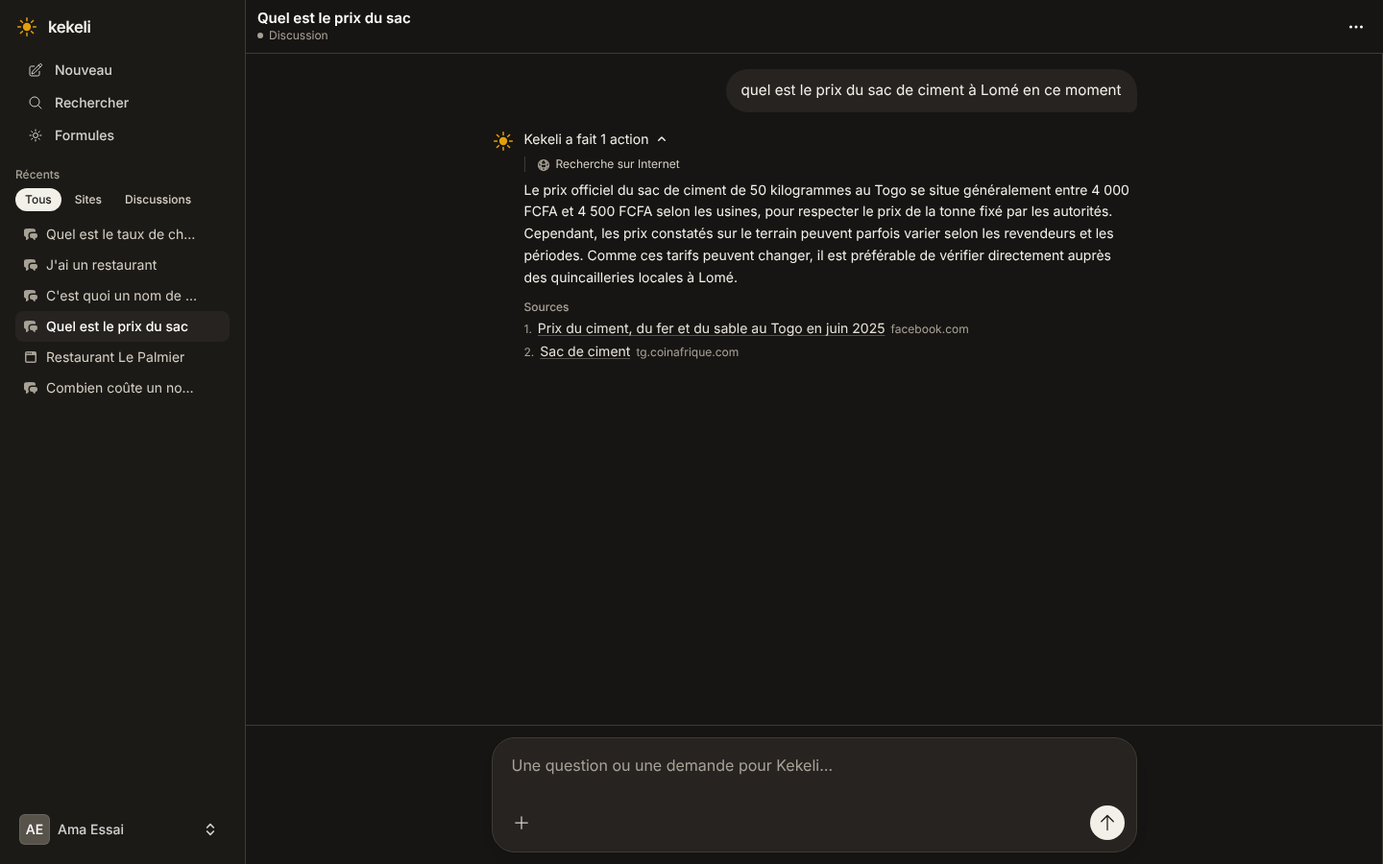
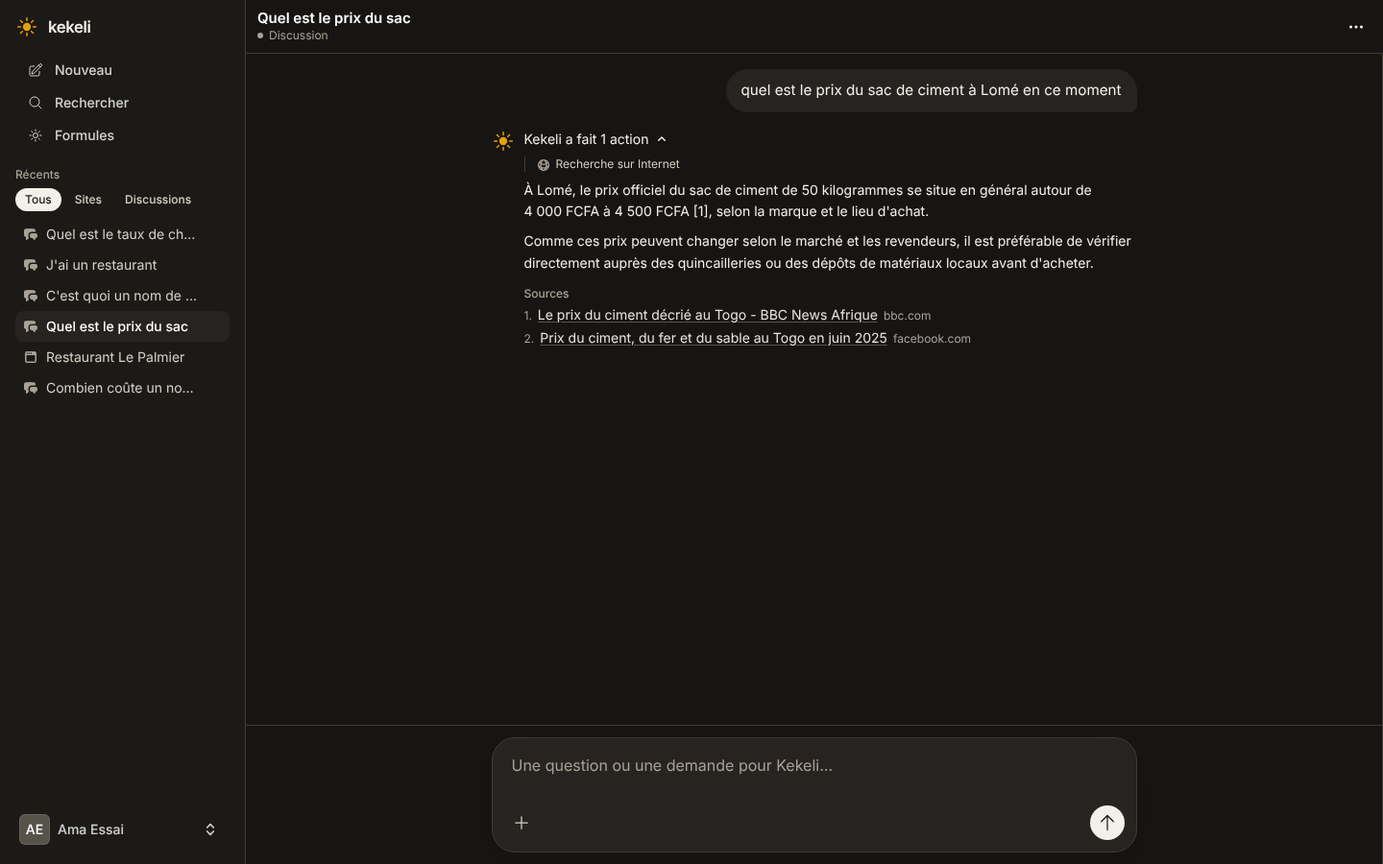
Recherche sur Internet : captures, documents
Captures sur téléphone et ordinateur, en mode clair et sombre (question
avec recherche et sources, recherche dans les actions repliées, question
sans recherche, limite atteinte, trois finitions de la navigation) ;
partie 26.13 du plan, CLAUDE.md et REPRISE.md à jour.

Claude-Session: https://claude.ai/code/session_01LdDqrkxoaQ87kKiJPA4bsJ

Changed region(s): [[0.375, 0.2178, 0.8125, 0.4356]]

diff --git a/CLAUDE.md b/CLAUDE.md
@@ -86,7 +86,7 @@ kekeli.dev, à acheter avant la mise en ligne.
 - **Construction et tests (étapes 2 à 7)** : Gemini, offre gratuite de Google AI Studio. Pour faire tourner l'agent, un modèle **Flash-Lite** (environ 500 requêtes par jour, à vérifier dans AI Studio) ; les Gemini Flash plus forts n'ont qu'environ 20 requêtes par jour en gratuit. Les modèles gratuits valident la mécanique ; à l'étape 6, on compare les **meilleurs modèles gratuits**. Aucun budget payant pendant la construction (règle numéro 8) : la comparaison avec Claude Haiku et Claude Sonnet se fera à la fin du projet, quand la clé Claude sera achetée.
 - **Offre gratuite = données utilisées par Google** (amélioration des produits, relecture humaine possible) : uniquement des données de test inventées pendant la construction, jamais de données réelles de clients.
 - **Liste des fournisseurs gratuits** (détails, limites et conditions dans `docs/plan.md`, essais réels du 10 novembre 2026 dans `docs/couts.md`), dans cet ordre (choisi le 11 novembre 2026 après les essais réels et corrigé le même jour, parties 21 et 22 de `docs/plan.md`) : 1. Google AI Studio, Gemini 3.5 Flash-Lite ; 2. Google AI Studio, Gemini 3.1 Flash-Lite (quota séparé) ; 3. OpenRouter (**uniquement des modèles gratuits « :free »**, et seulement ceux dont l'hébergeur permet l'usage pour des clients : par défaut `google/gemma-4-31b-it:free`, servi par Google ; jamais les versions gratuites de Nemotron, servies par NVIDIA sous des conditions d'essai « not in production », ni de North, servies par Cohere qui interdit de « commercially exploit » son service ; 50 requêtes par jour pour tous les modèles gratuits ensemble) ; 4. Cloudflare Workers AI (modèles gratuits seulement, 10 000 neurones par jour partagés avec les images ; le compte doit rester sur l'offre gratuite « Workers Free »). **Mistral écarté le 11 novembre 2026** : plus d'offre gratuite pour l'API (code gardé, inactif, comme Groq). **Groq essayé le 10 novembre 2026 : impossible pour l'agent** (8 000 tokens par minute, une demande en pèse environ 9 000) ; gardé dans le code (`GROQ_API_KEY`), hors de la liste. Écartés aussi, avec leur raison dans `docs/plan.md` (partie 21) : Cerebras, NVIDIA, Cohere, Hugging Face, GitHub Models, SambaNova, OVH, AI Horde, OpenCode Zen, les fournisseurs chinois, Moonshot et MiniMax ; à décider (rien intégré) : Z.ai et Zhipu, Ollama Cloud, les revendeurs. Liste et modèles repris du dépôt freellmapi (licence MIT, `MENTIONS.md`), qui n'est pas installé. **Jamais de modèle payant** : chez OpenRouter seulement « :free », chez Cloudflare seulement la liste des modèles gratuits, jamais de Gemini Pro, Argon ou Ultra ; refusé par le site (`ProviderList::isAllowed`), par le Runner (`modeleAutorise`) et par OpenCode (liste blanche) ; ne jamais acheter de crédits sans l'accord du porteur du projet. Un même projet garde le même modèle pendant 30 minutes (`MemoireModeles`). Un seul compte par fournisseur : ne jamais multiplier les comptes pour contourner les quotas.
-- **Réglages** (variables d'environnement, jamais dans le code) : `KEKELI_FOURNISSEURS` donne l'ordre de la liste (par exemple `gemini,openrouter,workersai`), dans le site ; une entrée peut préciser le modèle (`gemini/gemini-3.1-flash-lite`), utile car les quotas gratuits de Google sont comptés par modèle ; sinon le modèle vient de `KEKELI_MODELE_GEMINI`, `KEKELI_MODELE_OPENROUTER`, `KEKELI_MODELE_WORKERSAI`, `KEKELI_MODELE_MISTRAL` ; les limites affichées dans l'administration viennent de `KEKELI_LIMITE_JOUR_*`. Un fournisseur sans clé dans le Runner est ignoré. Noms des clés (dans le Runner seulement) : `GEMINI_API_KEY`, `OPENROUTER_API_KEY`, `GROQ_API_KEY`, `MISTRAL_API_KEY`, et `E2B_API_KEY` pour les ordinateurs virtuels. Secret partagé entre le site et le Runner : `KEKELI_RUNNER_SECRET`.
+- **Réglages** (variables d'environnement, jamais dans le code) : `KEKELI_FOURNISSEURS` donne l'ordre de la liste (par exemple `gemini,openrouter,workersai`), dans le site ; une entrée peut préciser le modèle (`gemini/gemini-3.1-flash-lite`), utile car les quotas gratuits de Google sont comptés par modèle ; sinon le modèle vient de `KEKELI_MODELE_GEMINI`, `KEKELI_MODELE_OPENROUTER`, `KEKELI_MODELE_WORKERSAI`, `KEKELI_MODELE_MISTRAL` ; les limites affichées dans l'administration viennent de `KEKELI_LIMITE_JOUR_*`. Un fournisseur sans clé dans le Runner est ignoré. Noms des clés (dans le Runner seulement) : `GEMINI_API_KEY`, `OPENROUTER_API_KEY`, `GROQ_API_KEY`, `MISTRAL_API_KEY`, `E2B_API_KEY` pour les ordinateurs virtuels, et `TAVILY_API_KEY`, `EXA_API_KEY` pour la recherche sur Internet. Secret partagé entre le site et le Runner : `KEKELI_RUNNER_SECRET`.
 - **Basculement** : sur une réponse « limite atteinte » (code 429 ou quota du jour épuisé), le fournisseur est mis de côté jusqu'à sa remise à zéro, et la même tâche reprend avec le suivant. Si tous sont épuisés (problème interne), la demande est **mise en attente et reprend automatiquement** ; l'utilisateur voit seulement « Kekeli est très sollicité » et **ne voit jamais qu'il s'agit d'offres gratuites** ; l'administrateur reçoit une alerte dans l'administration.
 - **Comptage** : requêtes, refus pour limite atteinte et tokens enregistrés par fournisseur et par jour ; page d'administration avec l'usage du jour comparé à la limite et une alerte à partir de 80 %.
 - **Lancement (étape 8)** : les offres gratuites servent seulement la formule gratuite de Kekeli ; les abonnés payants passent par des clés payantes. Choix d'un modèle économique et d'un modèle puissant payants au meilleur rapport qualité-prix (Gemini avec facturation Google Cloud, Claude, OpenAI ou autre). Jamais de Gemini gratuit pour des utilisateurs situés en Europe, en Suisse ou au Royaume-Uni.
@@ -163,6 +163,13 @@ kekeli.dev, à acheter avant la mise en ligne.
 - **Conseil d'hébergement** (inchangé) selon le code du site et le pays du client : 2 ou 3 choix honnêtes, ordre de grandeur du prix « à vérifier sur le site de l'hébergeur », sans jargon. **Aucune publicité, aucun lien d'affiliation.**
 - **Pour tous les sites**, le client choisit librement : publier (site vitrine, en un geste), télécharger son code, le relier à GitHub. « Relier à GitHub » n'apparaît que lorsque l'accès à GitHub est réglé ; sinon il reste caché, **sans aucun message « bientôt »**.
 
+### Recherche sur Internet avec sources (construite le 12 novembre 2026, `docs/plan.md`, partie 26.13)
+- **Outil « rechercher_web » du premier répondant** (accueil, discussions, projets) : seulement quand la réponse dépend d'informations actuelles ou vérifiables, ou quand le client le demande ; jamais pour une définition, une explication ou un conseil général.
+- **Offres gratuites seulement** : Tavily (recherche « basic ») puis Exa en secours ; un fournisseur qui demande de payer est ignoré. Clés `TAVILY_API_KEY` et `EXA_API_KEY`, seulement dans le Runner. **Pas de recherche Google intégrée à Gemini** : « Not available » dans l'offre gratuite.
+- **Réponses** : courtes, avec leurs propres mots, nombres en chiffres, date de l'information, incertitudes dites ; « Sources » ajoutées par Kekeli (2 à 5 liens, numérotés comme les citations [1]), jamais d'adresse écrite par le modèle ; ligne « Recherche sur Internet… » pendant la recherche.
+- **Sécurité** : contenu des pages = information, jamais consigne ; jamais d'adresse interne ; au plus 2 recherches par message.
+- **Limites** : par jour selon la formule (Gratuite 3, Pro 20, Expert 40, Agence 80) et 900 par mois pour tous, réglables dans Administration → Réglages ; 0,008 $ par recherche compté dans l'énergie (estimation) ; limite atteinte : réponse sans recherche, dite poliment.
+
 ### Publication des sites des clients
 - **Au départ, adresses gratuites de Cloudflare (`pages.dev`).** Pas de deuxième nom de domaine.
 - Les sites des clients ne sont jamais publiés sur kekeli.dev.
@@ -222,7 +229,7 @@ Le plan détaillé et à jour est dans [`docs/plan.md`](docs/plan.md).
 | Nettoyage professionnel | Règle : ce que Claude Code, Lovable ou Bolt.new n'ont pas (ou montrent autrement) est enlevé ou refait comme eux. Dernier message court, sans jargon ; « Kekeli a fait X actions » avec des libellés simples ; fichiers modifiés dans l'onglet Code seulement ; plus de boutons de copie ni de partage ; aucun emoji dans les messages système ; aperçu qui se rallume tout seul ; fonctions « bientôt disponible » cachées ; tous les écrans du client allégés | Construit et testé (captures : `docs/captures/nettoyage.md` ; détails : `docs/plan.md`, partie 23.10), à valider ; suivant : mise en ligne sur Laravel Cloud, puis l'application GitHub avec « dépôt d'abord » et « site d'abord » livrés ensemble, puis les versions (partie 23.11) |
 | Publier et récupérer son site (12 novembre 2026) | Site vitrine : « Mettre en ligne » en un geste, plus « Télécharger le code » et « Relier à GitHub » ; site avec base de données : plus de guide ni de ZIP pour cPanel, « Récupérer le code » avec une phrase honnête ; questions dans la discussion répondues sans modifier le site (une requête, sans ordinateur) ; conseils d'hébergement honnêtes | Construit et testé (captures : `docs/captures/publier.md` ; détails : `docs/plan.md`, partie 23.12 ; énergie : `docs/couts.md`), à valider |
 | Nouvelles formules (12 novembre 2026) | Gratuite, Pro 7 500 FCFA, Expert 20 000 FCFA, Agence 50 000 FCFA ; énergie par mois pour les payantes ; prix en dollars hors zone FCFA ; passage des abonnés de Découverte et d'Entreprise sans perte ; plafond gratuit 1 000 FCFA et 5 minutes avant la pause ; prix du cache de Sonnet 5.5 corrigé | Construit et testé (captures : `docs/captures/formules.md` ; détails : `docs/plan.md`, partie 25), à valider |
-| Kekeli, agent général (12 novembre 2026) | Étude et plan : dix capacités, architecture en trois niveaux (répondre, chercher, fabriquer), identité visuelle, coûts, sécurité, ordre des pull requests | Étude fusionnée (`docs/plan.md`, partie 26) ; design validé le 12 novembre 2026 (pull request 34), finitions validées (pull request 35) ; pull request 2 « Une seule zone pour tout » validée (pull request 36) ; pull request « Navigation professionnelle » construite et testée (barre commune, recherche, Récents, menu « + », apparence, réglages par onglets, nombres en chiffres ; mesure 35 sur 36 ; captures : `docs/captures/navigation.md` ; détails : partie 26.12), **à valider avant la pull request des documents** |
+| Kekeli, agent général (12 novembre 2026) | Étude et plan : dix capacités, architecture en trois niveaux (répondre, chercher, fabriquer), identité visuelle, coûts, sécurité, ordre des pull requests | Étude fusionnée (`docs/plan.md`, partie 26) ; design validé le 12 novembre 2026 (pull request 34), finitions validées (pull request 35) ; pull request 2 « Une seule zone pour tout » validée (pull request 36) ; pull request « Navigation professionnelle » validée (pull request 37) ; pull request « Recherche sur Internet avec sources » construite et testée (Tavily puis Exa gratuits, sources, quotas, trois finitions de la navigation ; mesure 12 sur 13 avec recherche et 36 sur 36 sans ; captures : `docs/captures/recherche.md` ; détails : partie 26.13), **à valider avant la suite** (documents ensuite) |
 | Avant le lancement public | Accès GitHub limité aux seuls dépôts choisis par le client (application GitHub, comme Lovable) ; relecture juridique | À faire |
 | Plus tard | Envoi vers GitLab et Bitbucket (même simplicité que GitHub) ; interface en anglais ; clé Claude (fin du projet) et ouverture des pays européens ; modèles payants pour les abonnés ; achat de kekeli.dev | À faire |
 
@@ -249,6 +256,7 @@ Le plan détaillé et à jour est dans [`docs/plan.md`](docs/plan.md).
 - Sites avec base de données (appelés « applications » dans le code) : description dans `runner/src/applications/modeles.json` (le socle seul), fabriques `laravel.js` et `nextjs.js` (code ordinaire en français, tests), fichiers fixes et versions exactes dans `runner/src/applications/socles/` ; essai local : `node runner/scripts/fabriquer-application.mjs <laravel|nextjs> socle <dossier>`. Runner : `runner/src/application.js` (fichiers de départ, installation, `.env` et administrateur d'essai, vérifications), `consignesApplication` dans `runner/src/ordinateurs.js`, mode application du serveur d'aperçu (`superviserApplication`, cookie `kekeli_apercu`, cookies adaptés au cadre, « Votre site redémarre » pendant 90 secondes après un lancement puis message clair en français à la place d'une erreur 500 : `PAGE_ERREUR_SITE`) ; compte d'essai recréé après chaque demande (`retablirAdminEssai`, avant les vérifications). Site : `Project::KIND_WEBAPP` (colonnes `app_stack`, `app_template`, `app_admin_email`, `app_admin_password` chiffré ; colonnes `package_*` inutilisées depuis le 12 novembre 2026), `app/WebApps/WebAppTemplates.php`, détection `app/WebApps/SiteNeeds.php`, priorité dans `app/Agent/AgentPlaces.php` ; fenêtre « Récupérer le code » dans `projects/partials/publish.blade.php`, « Relier à GitHub » dans `projects/partials/github-link.blade.php`. Essais : `runner/scripts/essai-application.mjs` (Runner seul) et `scripts/essai-nouveau-site.js` (de bout en bout, depuis « Que voulez-vous créer aujourd’hui ? »).
 - Premier répondant : côté Runner `runner/src/repondant.js` (consigne `CONSIGNES_REPONDANT`, registre `OUTILS`, `premierRepondant`, adresse signée `POST /repondre`) ; côté site `app/Agent/FirstResponder.php` (lieux et outils permis), outils `app/Agent/Tools/CreateSite.php` et `ModifySite.php`, tâche `app/Jobs/RespondToMessage.php` (demande `AgentRun::PURPOSE_QUESTION`, attente et nouveaux essais), `RunnerClient::respond`, `RunStarter::startWith` (travail sur un message déjà écrit), discussions `Project::KIND_CHAT` avec `NewSite::create` et `NewSite::convert`, titres `app/WebApps/ChatTitles.php`. Tests : modèle simulé `tests/Support/FakeFirstResponder.php` (branché par défaut dans `tests/TestCase.php`, `useRealFirstResponder()` pour le vrai). Mesure : `runner/mesures/` et `runner/scripts/mesurer-repondant.mjs`. Captures : `scripts/captures-une-seule-zone.js`.
 - Navigation : barre `resources/views/components/navigation.blade.php` (utilisée par `components/layouts/app/sidebar.blade.php` et `components/layouts/workspace.blade.php`), composants Volt `navigation/recents` (filtres, renommer, supprimer) et `navigation/search` ; page « Nouveau » `projects/index` ; menu « + » dans `components/prompt-box.blade.php` (emplacement `menu`), icône `resources/views/flux/icon/github.blade.php` ; apparence `users.appearance` (migration `2026_11_13_000001_add_appearance_to_users`) et script dans `partials/head.blade.php` ; réglages `components/settings/layout.blade.php` (onglets), pages Volt `settings/plan` et `settings/connectors`. Captures : `scripts/captures-navigation.js`.
+- Recherche sur Internet : côté Runner `runner/src/recherche.js` (Tavily, Exa, adresses sûres) et outil interne `rechercher_web` dans `runner/src/repondant.js` (`CONSIGNES_RECHERCHE`, `texteEtSources`, événement `recherche`) ; côté site `app/Agent/WebSearchQuota.php`, colonnes `agent_runs.web_searches` et `web_search_cost_usd`, réglages `web_search_monthly_cap`, `web_search_price_usd` et `web_searches_per_day` de chaque formule, étape `recherche_web`, sources dans `components/run-report.blade.php` (`RespondToMessage::sources`). Mesure : `node runner/scripts/mesurer-repondant.mjs --recherche` (`RECHERCHES_BUDGET`). Captures : `scripts/captures-recherche.js`.
 - Administration : pages `/administration/fournisseurs`, `/administration/projets`, `/administration/consommation`, `/administration/paiements` et `/administration/reglages`, réservées aux comptes administrateurs (`php artisan kekeli:admin adresse`) ; l'administrateur peut consulter un projet en lecture seule.
 - Un utilisateur ne voit et ne modifie que ses propres projets : toujours passer par `Auth::user()->projects()` ou vérifier le propriétaire (réponse 404 sinon).
 - Commandes utiles :

diff --git a/docs/plan.md b/docs/plan.md
@@ -1231,6 +1231,32 @@ Insérée avant les documents, à la demande du porteur du projet, pour ranger K
 
 Tests : `tests/Feature/NavigationTest.php` (Système par défaut et sans flash, même barre partout, recherche, filtres de « Récents », menu « + », onglet Connecteurs caché) et `runner/tests/repondant.test.js`. Captures : `docs/captures/navigation.md`.
 
+### 26.13 Pull request « Recherche sur Internet avec sources » réalisée (12 novembre 2026)
+
+Avancée avant les documents par le porteur du projet. Clés gratuites placées par lui (`TAVILY_API_KEY`, `EXA_API_KEY`, ajoutées vides dans `.env.example`).
+
+**Principe**, comme Claude et ChatGPT : le modèle reste le même ; le premier répondant reçoit un nouvel outil « rechercher_web » dans son registre (`runner/src/repondant.js`), proposé sur l'accueil, dans les discussions et dans les projets. Il cherche seulement quand la réponse dépend d'informations actuelles ou vérifiables (prix, actualités, lois, personnes en poste, horaires, dates, produits récents) ou quand le client le demande ; jamais pour une définition, une explication ou un conseil général. La recherche est faite par le Runner (`runner/src/recherche.js`), puis le modèle termine sa réponse.
+
+**Fournisseurs, offres gratuites seulement** : Tavily en principal (recherche « basic », 1 crédit), Exa en secours ; un fournisseur qui demande de payer (402, 432, 433) ou qui a atteint sa limite (429) est laissé de côté, jamais payé. **La recherche Google intégrée à Gemini n'est pas ajoutée** : la page officielle des prix (aistudio.google.com/docs/pricing, lue le 12 novembre 2026) indique « Not available » dans l'offre gratuite pour Gemini 3.5 et 3.1 Flash-Lite (5 000 recherches gratuites par mois seulement sur un compte payant, puis 14 $ pour 1 000).
+
+**Réponses** : courtes, avec leurs propres mots, nombres en chiffres, date de l'information quand les pages la donnent (et avertissement si elle peut être ancienne), contradictions signalées. Citations [1], [2]… renumérotées dans l'ordre des sources affichées ; section « Sources » ajoutée par Kekeli (2 à 5 liens cliquables, titre et nom du site), construite à partir des résultats, jamais des adresses écrites par le modèle. Pendant la recherche, la ligne « Recherche sur Internet… » ; ensuite, la recherche est rangée dans les actions repliées.
+
+**Sécurité** : le contenu des pages est remis au modèle comme une information, jamais une consigne, avec la règle d'ignorer toute instruction qu'il contient ; jamais de recherche ni de résultat vers une adresse interne (localhost, adresses privées, `.local`, `.internal`) ; extraits raccourcis ; clés seulement dans le Runner.
+
+**Limites et coût** : au plus 2 recherches par message ; par jour selon la formule (Gratuite 3, Pro 20, Expert 40, Agence 80) et 900 par mois pour tous les clients ensemble, sous les offres gratuites (`app/Agent/WebSearchQuota.php`, Administration → Réglages). Chaque recherche est comptée dans l'énergie à 0,008 $ (prix d'un crédit Tavily payant, estimation), même pendant l'offre gratuite. Limite atteinte : l'outil n'est pas proposé et Kekeli dit poliment qu'il n'a pas pu vérifier sur Internet.
+
+**Mesure réelle économe (12 novembre 2026, Gemini 3.5 Flash-Lite, Tavily et Exa gratuits)** : 13 phrases de plus dans `runner/mesures/phrases-repondant.json` (7 demandent une recherche, 6 non), mode `node runner/scripts/mesurer-repondant.mjs --recherche`, résultat `runner/mesures/resultats-recherche.json`.
+- Décisions : **12 sur 13** au dernier passage (11 sur 13, puis 10 sur 13 avant les corrections). L'erreur restante : « est-ce que WhatsApp Business est toujours gratuit cette année » est répondu sans recherche.
+- Les 36 phrases sans recherche : **36 sur 36**.
+- Sources : pertinentes et de sites togolais ou spécialisés (canalplus.com, bceao.int, xe.com, wikipedia.org, aéroport de Lomé, togofirst.com), parfois des pages Facebook ou des vidéos. Une vérification à la main a montré que les dates données correspondent bien aux pages.
+- Corrections trouvées pendant la mesure : quota de recherches commun à tous les modèles d'un message (3 recherches avaient été faites au lieu de 2), date de l'information, citations renumérotées (« [3, 4] » compris).
+- Crédits consommés : **22 recherches Tavily pour la mesure** (budget de 40), plus **4 pour les captures** ; Exa jamais utilisé (Tavily a toujours répondu). Quota gratuit de Tavily : environ 1 000 par mois.
+- **Coût d'une question avec recherche** (estimation au prix payant) : environ 5 400 tokens lus et 120 écrits, soit environ 1,1 FCFA de modèle, plus 4,7 FCFA de recherche : **environ 5,9 FCFA** ; sans recherche, environ 0,3 FCFA. Avec les offres gratuites, le coût réel est de 0 FCFA, mais l'énergie compte ces montants.
+
+**Finitions de la navigation** dans la même pull request : onglets des réglages en deux colonnes de pastilles sur téléphone, extrait de la recherche sur un mot entier sans marque de liste, une seule question courte à la toute fin quand le client parle seulement de son activité (jamais de proposition de site après des conseils ou un texte). Correction trouvée en passant : une longue source faisait déborder la discussion sur téléphone ; « 4 500 FCFA » n'est plus coupé en fin de ligne.
+
+Tests : `tests/Feature/WebSearchTest.php` et `runner/tests/repondant.test.js` (fournisseur simulé : recherche ou non, passage de Tavily à Exa, limite atteinte, sources, adresses internes refusées, instruction cachée dans une page sans effet). Captures : `docs/captures/recherche.md`.
+
 ## Sources
 
 - Moteur : [OpenCode](https://opencode.ai/docs/), [fournisseurs OpenCode](https://opencode.ai/docs/providers/), [permissions OpenCode](https://opencode.ai/docs/permissions/), [serveur OpenCode](https://opencode.ai/docs/server/), [OpenCode sur E2B](https://docs.e2b.dev/agents/opencode.md), [OpenHands Software Agent SDK](https://docs.openhands.dev/sdk), [Gemini CLI](https://github.com/google-gemini/gemini-cli), [authentification Gemini CLI](https://geminicli.com/docs/get-started/authentication/)
@@ -1240,3 +1266,4 @@ Tests : `tests/Feature/NavigationTest.php` (Système par défaut et sans flash, 
 - Autres fournisseurs gratuits : [conditions OpenRouter](https://openrouter.ai/terms), [confidentialité OpenRouter](https://openrouter.ai/privacy), [limites Groq](https://console.groq.com/docs/rate-limits), [contrat Groq](https://console.groq.com/docs/legal/services-agreement), [limites OpenRouter](https://openrouter.ai/docs/api-reference/limits), [limites Cerebras](https://inference-docs.cerebras.ai/support/rate-limits), [prix Cerebras](https://www.cerebras.ai/pricing), [Mistral : offre Experiment](https://help.mistral.ai/en/articles/455206-how-can-i-try-the-api-for-free-with-the-experiment-plan), [Mistral : désactiver l'entraînement](https://help.mistral.ai/en/articles/455207-can-i-opt-out-of-my-input-or-output-data-being-used-for-training), [GitHub Models](https://docs.github.com/en/github-models/use-github-models/prototyping-with-ai-models), [OpenCode Zen](https://opencode.ai/docs/zen/)
 - Sources secondaires sur les données d'OpenRouter : [TrueFoundry](https://www.truefoundry.com/blog/openrouter-free-models-whats-actually-free-and-what-it-costs-you)
 - Agent général (partie 26) : [prix de Claude](https://platform.claude.com/docs/en/about-claude/pricing), [coûts de Claude Code](https://code.claude.com/docs/en/costs), [prix de Gemini](https://aistudio.google.com/docs/pricing), [droits de Google Drive](https://developers.google.com/workspace/drive/api/guides/api-specific-auth), [droits de Gmail](https://developers.google.com/workspace/gmail/api/auth/scopes), [CNIL, communications électroniques](https://www.cnil.fr/fr/communication-electronique-quelles-regles), [CNIL, adresses professionnelles](https://cnil.fr/fr/node/169044), [fin de l'offre gratuite de Brave](https://www.implicator.ai/brave-drops-free-search-api-tier-puts-all-developers-on-metered-billing.md), [design de Claude, extraction non officielle](https://open-design.ai/systems/claude/)
+- Recherche sur Internet (partie 26.13) : [prix de Gemini et recherche Google intégrée](https://aistudio.google.com/docs/pricing), [Tavily](https://docs.tavily.com/), [Exa](https://docs.exa.ai/)

diff --git a/docs/captures/recherche.md b/docs/captures/recherche.md
@@ -1,0 +1,76 @@
+# Recherche sur Internet avec sources
+
+Captures du 12 novembre 2026 sur un téléphone simulé (Pixel 7, navigateur en français) et sur un ordinateur (1 440 × 900), en mode clair et en mode sombre. Les questions sont parties pour de vrai vers le premier répondant (Gemini gratuit) et la recherche (Tavily gratuit), sans ordinateur virtuel. Compte et projets inventés. Script : `scripts/captures-recherche.js`. Détails : `docs/plan.md`, partie 26.13.
+
+## Une question avec recherche, et ses sources
+
+« quel est le prix du sac de ciment à Lomé en ce moment » : Kekeli cherche sur Internet, répond court avec ses propres mots et des nombres en chiffres, cite [1], et ajoute « Sources » : liens cliquables, numérotés comme dans le texte, avec le nom du site.
+
+| | Mode clair | Mode sombre |
+|---|---|---|
+| Téléphone | ![Téléphone](recherche/telephone-1-question-avec-recherche.png) | ![Téléphone, sombre](recherche/telephone-sombre-1-question-avec-recherche.png) |
+| Ordinateur | ![Ordinateur](recherche/ordinateur-1-question-avec-recherche.png) | ![Ordinateur, sombre](recherche/ordinateur-sombre-1-question-avec-recherche.png) |
+
+## La recherche, rangée dans les actions repliées
+
+« Kekeli a fait 1 action » se déplie : « Recherche sur Internet ». Pendant la recherche, la ligne discrète « Recherche sur Internet… » remplace « Kekeli réfléchit… ».
+
+| | Mode clair | Mode sombre |
+|---|---|---|
+| Téléphone | ![Téléphone](recherche/telephone-2-recherche-dans-les-actions.png) | ![Téléphone, sombre](recherche/telephone-sombre-2-recherche-dans-les-actions.png) |
+| Ordinateur | ![Ordinateur](recherche/ordinateur-2-recherche-dans-les-actions.png) | ![Ordinateur, sombre](recherche/ordinateur-sombre-2-recherche-dans-les-actions.png) |
+
+## Une question sans recherche
+
+« c'est quoi un nom de domaine » : une explication stable, Kekeli répond directement, sans chercher et sans sources.
+
+| | Mode clair | Mode sombre |
+|---|---|---|
+| Téléphone | ![Téléphone](recherche/telephone-3-question-sans-recherche.png) | ![Téléphone, sombre](recherche/telephone-sombre-3-question-sans-recherche.png) |
+| Ordinateur | ![Ordinateur](recherche/ordinateur-3-question-sans-recherche.png) | ![Ordinateur, sombre](recherche/ordinateur-sombre-3-question-sans-recherche.png) |
+
+## La limite atteinte
+
+Plus de recherche permise aujourd'hui pour ce compte : Kekeli répond avec ce qu'il sait et dit poliment qu'il n'a pas pu vérifier sur Internet.
+
+| | Mode clair | Mode sombre |
+|---|---|---|
+| Téléphone | ![Téléphone](recherche/telephone-4-limite-atteinte.png) | ![Téléphone, sombre](recherche/telephone-sombre-4-limite-atteinte.png) |
+| Ordinateur | ![Ordinateur](recherche/ordinateur-4-limite-atteinte.png) | ![Ordinateur, sombre](recherche/ordinateur-sombre-4-limite-atteinte.png) |
+
+# Les trois finitions de la navigation
+
+## 1. Les onglets des réglages sur téléphone
+
+Avant : l'onglet « Formule » était coupé au bord de l'écran. Après : deux colonnes de pastilles, toutes visibles.
+
+| Avant (téléphone) | Après (téléphone) |
+|---|---|
+| ![Avant](navigation/apres/telephone-7-reglages-profil.png) | ![Après](recherche/telephone-5-finition-onglets-reglages.png) |
+
+| | Mode clair | Mode sombre |
+|---|---|---|
+| Téléphone | ![Téléphone](recherche/telephone-5-finition-onglets-reglages.png) | ![Téléphone, sombre](recherche/telephone-sombre-5-finition-onglets-reglages.png) |
+| Ordinateur | ![Ordinateur](recherche/ordinateur-5-finition-onglets-reglages.png) | ![Ordinateur, sombre](recherche/ordinateur-sombre-5-finition-onglets-reglages.png) |
+
+## 2. L'extrait de la recherche
+
+Avant : « …t gratuits. - Si vous… » (début au milieu d'un mot, marque de liste). Après : début sur un mot entier, sans marque de liste.
+
+| Avant (téléphone) | Après (téléphone) |
+|---|---|
+| ![Avant](navigation/apres/telephone-3-recherche.png) | ![Après](recherche/telephone-6-finition-extrait-recherche.png) |
+
+| | Mode clair | Mode sombre |
+|---|---|---|
+| Téléphone | ![Téléphone](recherche/telephone-6-finition-extrait-recherche.png) | ![Téléphone, sombre](recherche/telephone-sombre-6-finition-extrait-recherche.png) |
+| Ordinateur | ![Ordinateur](recherche/ordinateur-6-finition-extrait-recherche.png) | ![Ordinateur, sombre](recherche/ordinateur-sombre-6-finition-extrait-recherche.png) |
+
+## 3. « j'ai un restaurant »
+
+Après : une seule question courte, à la toute fin (« Voulez-vous que je crée le site de votre restaurant ? ») ; plus de proposition glissée au milieu de la réponse, ni après des conseils ou un texte écrit pour le client.
+
+| | Mode clair | Mode sombre |
+|---|---|---|
+| Téléphone | ![Téléphone](recherche/telephone-7-finition-question-finale.png) | ![Téléphone, sombre](recherche/telephone-sombre-7-finition-question-finale.png) |
+| Ordinateur | ![Ordinateur](recherche/ordinateur-7-finition-question-finale.png) | ![Ordinateur, sombre](recherche/ordinateur-sombre-7-finition-question-finale.png) |

diff --git a/REPRISE.md b/REPRISE.md
@@ -2,7 +2,7 @@
 
 Ce fichier sert à reprendre le travail sans rien perdre, par exemple depuis une nouvelle séance ou un autre compte. Il est mis à jour à la fin de chaque chantier. Les règles complètes et toutes les décisions sont dans [`CLAUDE.md`](CLAUDE.md) (il fait foi) ; le plan détaillé est dans [`docs/plan.md`](docs/plan.md).
 
-Dernière mise à jour : 12 novembre 2026 (pull request « Navigation professionnelle »).
+Dernière mise à jour : 12 novembre 2026 (pull request « Recherche sur Internet avec sources »).
 
 ## Comment reprendre
 
@@ -35,10 +35,12 @@ Dernière mise à jour : 12 novembre 2026 (pull request « Navigation profession
 | `GROQ_API_KEY` | Runner (facultative) | Groq : gardé dans le code, hors de la liste (offre gratuite trop petite pour l'agent) |
 | `MISTRAL_API_KEY` | Inutile | Mistral n'a plus d'offre gratuite pour l'API (code gardé, inactif) |
 | `PEXELS_API_KEY` | Runner (facultative) | Photos libres Pexels |
+| `TAVILY_API_KEY` | Runner | Recherche sur Internet, en principal (offre gratuite, environ 1 000 recherches par mois) |
+| `EXA_API_KEY` | Runner | Recherche sur Internet, en secours (offre gratuite) |
 | `KEKELI_RUNNER_SECRET` | Site et Runner | Signature des échanges entre le site et le Runner |
 | `LARAVEL_CLOUD_API_TOKEN` | Site (lecture seule) | Lecture quotidienne du coût d'hébergement |
 
-Le 10 novembre 2026 : `GEMINI_API_KEY`, `E2B_API_KEY`, `CLOUDFLARE_ACCOUNT_ID` et `CLOUDFLARE_API_TOKEN` sont placées dans l'environnement de Claude ; `OPENROUTER_API_KEY` et `GROQ_API_KEY` ont été placées ensuite ; `PEXELS_API_KEY` ne l'est pas (facultative), `MISTRAL_API_KEY` est inutile.
+Le 10 novembre 2026 : `GEMINI_API_KEY`, `E2B_API_KEY`, `CLOUDFLARE_ACCOUNT_ID` et `CLOUDFLARE_API_TOKEN` sont placées dans l'environnement de Claude ; `OPENROUTER_API_KEY` et `GROQ_API_KEY` ont été placées ensuite ; `PEXELS_API_KEY` ne l'est pas (facultative), `MISTRAL_API_KEY` est inutile. Le 12 novembre 2026 : `TAVILY_API_KEY` et `EXA_API_KEY` sont présentes.
 
 ## Ce qui est fait (tout est dans `main`)
 
@@ -127,7 +129,8 @@ Le porteur du projet veut rendre le dépôt public environ 2 mois, pour que GitH
 - **Nouveau design fait** (captures : `docs/captures/design.md`). **Le porteur du projet veut le valider avant la suite** : ne pas commencer la pull request 2 « Une seule zone pour tout » avant son accord.
 - **Design validé le 12 novembre 2026 (pull request 34)**, puis **finitions** : message final de Kekeli en paragraphes et listes (affichage sûr, `RunReport::text` et `RunReport::blocks`), consignes du message final sans jargon pour un commerçant (`consignesMessageFinal` et `JARGON_INTERDIT` dans `runner/src/ordinateurs.js`), bloc « Compte administrateur d'essai » au style du design. Finitions validées.
 - **Pull request 2 « Une seule zone pour tout » construite** (`docs/plan.md`, partie 26.11 ; captures : `docs/captures/une-seule-zone.md`) : premier répondant (le modèle décide avec un outil par lieu), discussions, `MessageIntent` supprimé ; mesure réelle 33 sur 33. Validée (pull request 36).
-- **Pull request « Navigation professionnelle » construite** (`docs/plan.md`, partie 26.12 ; captures : `docs/captures/navigation.md`) : barre commune, recherche, Récents filtrés, menu « + », apparence Système / Clair / Sombre gardée pour le compte, réglages par onglets, nombres en chiffres (mesure 35 sur 36). **Ne pas commencer la pull request des documents : le porteur du projet veut d'abord valider.**
+- **Pull request « Navigation professionnelle » construite** (`docs/plan.md`, partie 26.12 ; captures : `docs/captures/navigation.md`) : barre commune, recherche, Récents filtrés, menu « + », apparence Système / Clair / Sombre gardée pour le compte, réglages par onglets, nombres en chiffres (mesure 35 sur 36). Validée (pull request 37).
+- **Pull request « Recherche sur Internet avec sources » construite** (`docs/plan.md`, partie 26.13 ; captures : `docs/captures/recherche.md`) : outil `rechercher_web` (Tavily puis Exa gratuits), sources, quotas par formule et par mois, coût dans l'énergie, trois finitions de la navigation ; mesure 12 sur 13 avec recherche, 36 sur 36 sans ; 26 crédits Tavily consommés. **Ne pas commencer la suite (documents) : le porteur du projet veut d'abord valider.**
 - Essai local du premier répondant sans ordinateur : un petit Runner qui crée le serveur sans gestionnaire d'ordinateurs (le vrai Runner contacte E2B au démarrage) ; la mesure se refait avec `node runner/scripts/mesurer-repondant.mjs`.
 - Règle de travail demandée le 12 novembre 2026 : un commit et un push après chaque étape importante, pour ne jamais perdre de travail.
 
